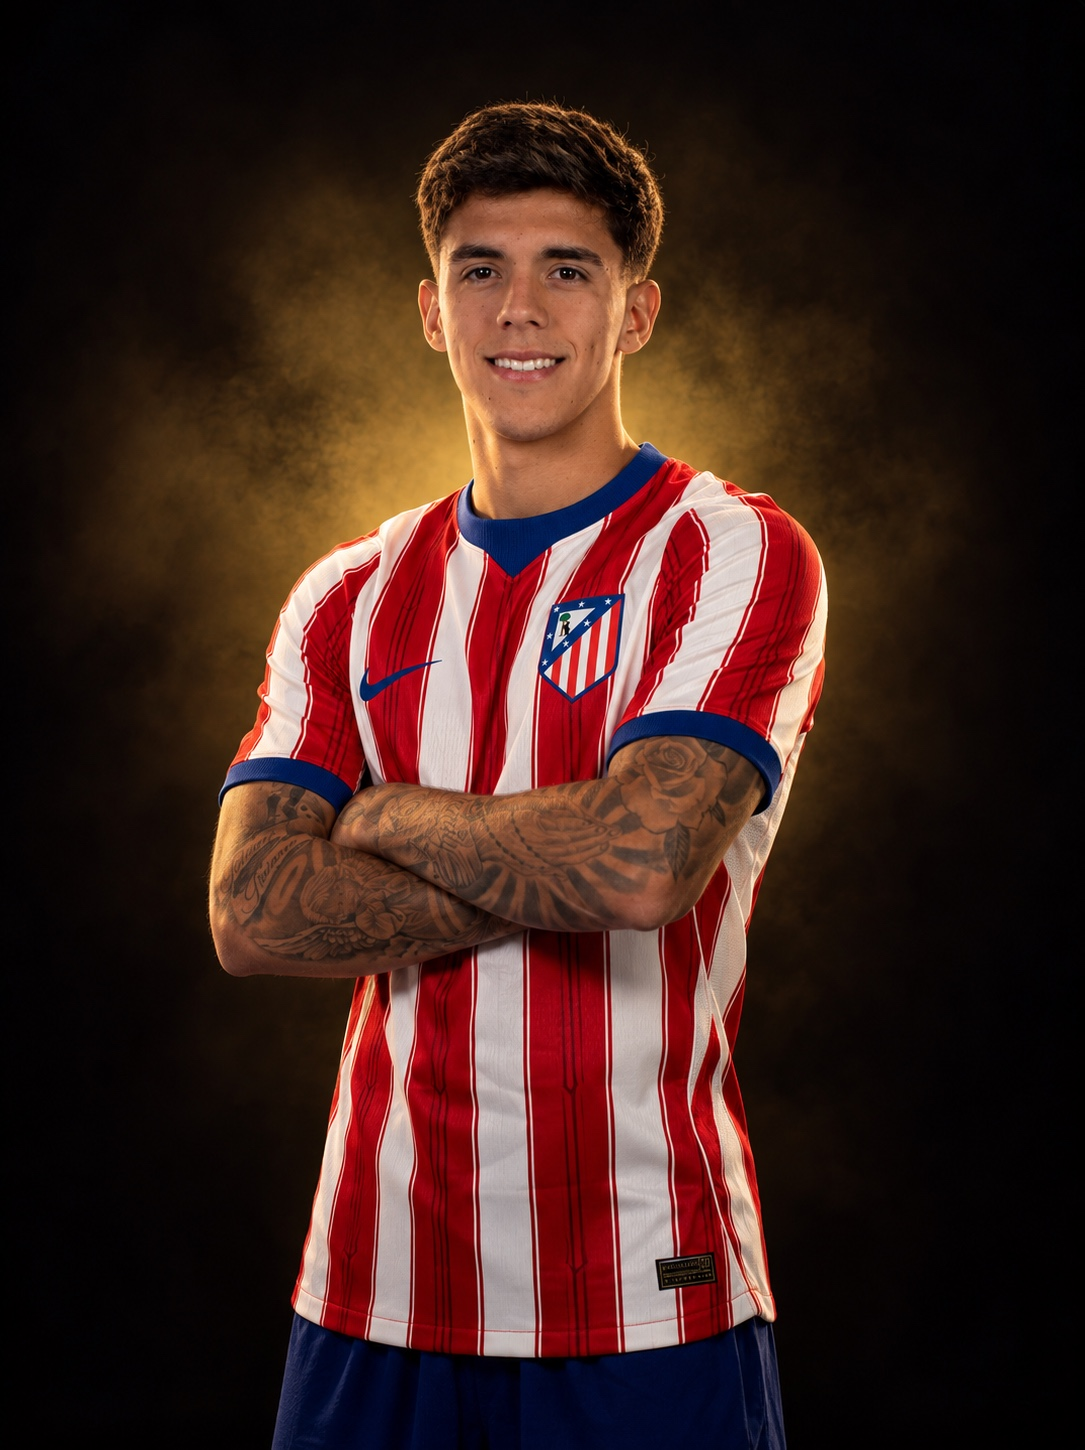
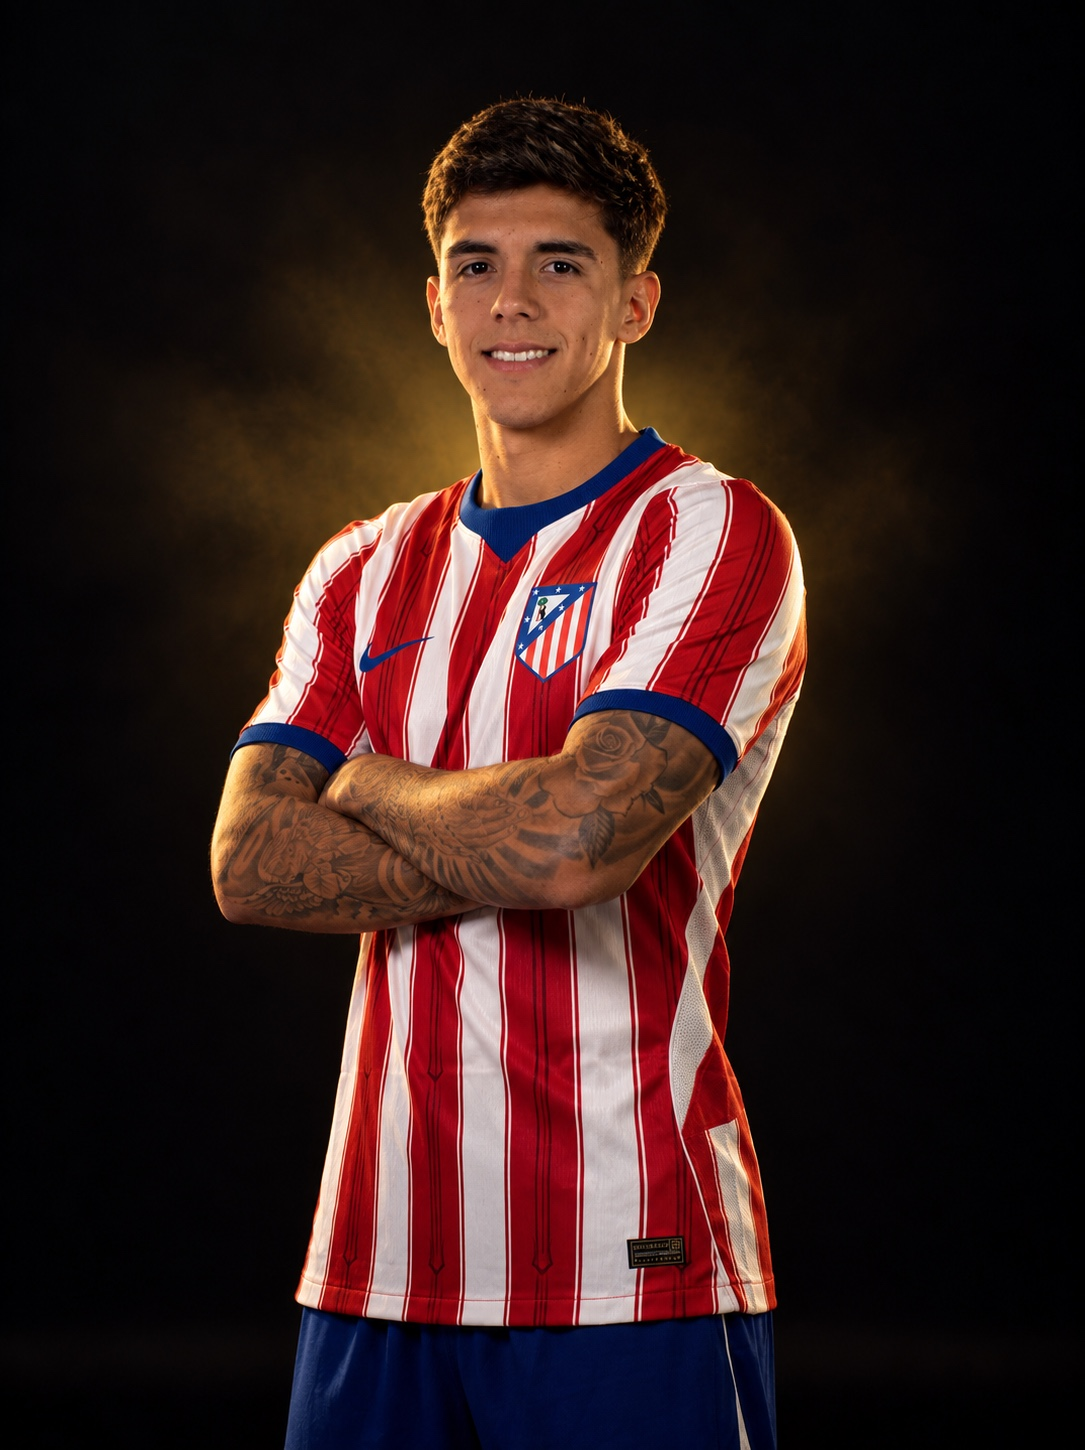
roster: cinco fotos de estudio retocadas con menos resplandor
Damián Cáceres, Iker Luque, Mati Barzic, Salim El-Jebari y Thiago Helguera
pasan a la versión que Mario rehízo con el resplandor dorado más suave. Las
otras cinco de las diez primeras siguen con la versión anterior.

diff --git a/docs/hallazgos-abiertos.md b/docs/hallazgos-abiertos.md
@@ -110,9 +110,13 @@ estén todas, el grid mezcla las de estudio con las antiguas.
 Dani Requena, Mati Barzic, Iker Luque, Javi Hernández, Alberto Del Moral, Thiago
 Helguera, Owen Emeka, Salim El-Jebari y Damián Cáceres. Con ellas se cierran dos
 pendientes de la vía anterior: la foto de Alberto Del Moral que esperaba visto bueno
-y la de Mati Barzic, que era corta de resolución (619×825).
+y la de Mati Barzic, que era corta de resolución (619×825). El 2026-09-28 Mario
+rehízo cinco de ellas (Damián Cáceres, Iker Luque, Mati Barzic, Salim El-Jebari y
+Thiago Helguera) con menos resplandor dorado detrás, y las nuevas sustituyeron a las
+primeras. Una foto ya aplicada puede volver a llegar retocada: se sustituye igual.
 
-**Cómo se aplica una tanda**: llegan en PNG de 1085×1450 (3:4), sin perfil de color,
+**Cómo se aplica una tanda**: llegan en PNG de unos 1085×1450 (3:4; alguna varía en
+un par de píxeles), sin perfil de color,
 con el nombre `<Nombre> Web.png`. Se convierten a JPEG de calidad 92 y se guardan
 **encima del archivo que ya existe, con su misma extensión** (ver «Sustituir, no
 añadir» más abajo). Cada una queda en unos 300-400 kB. **El nombre del PNG no
